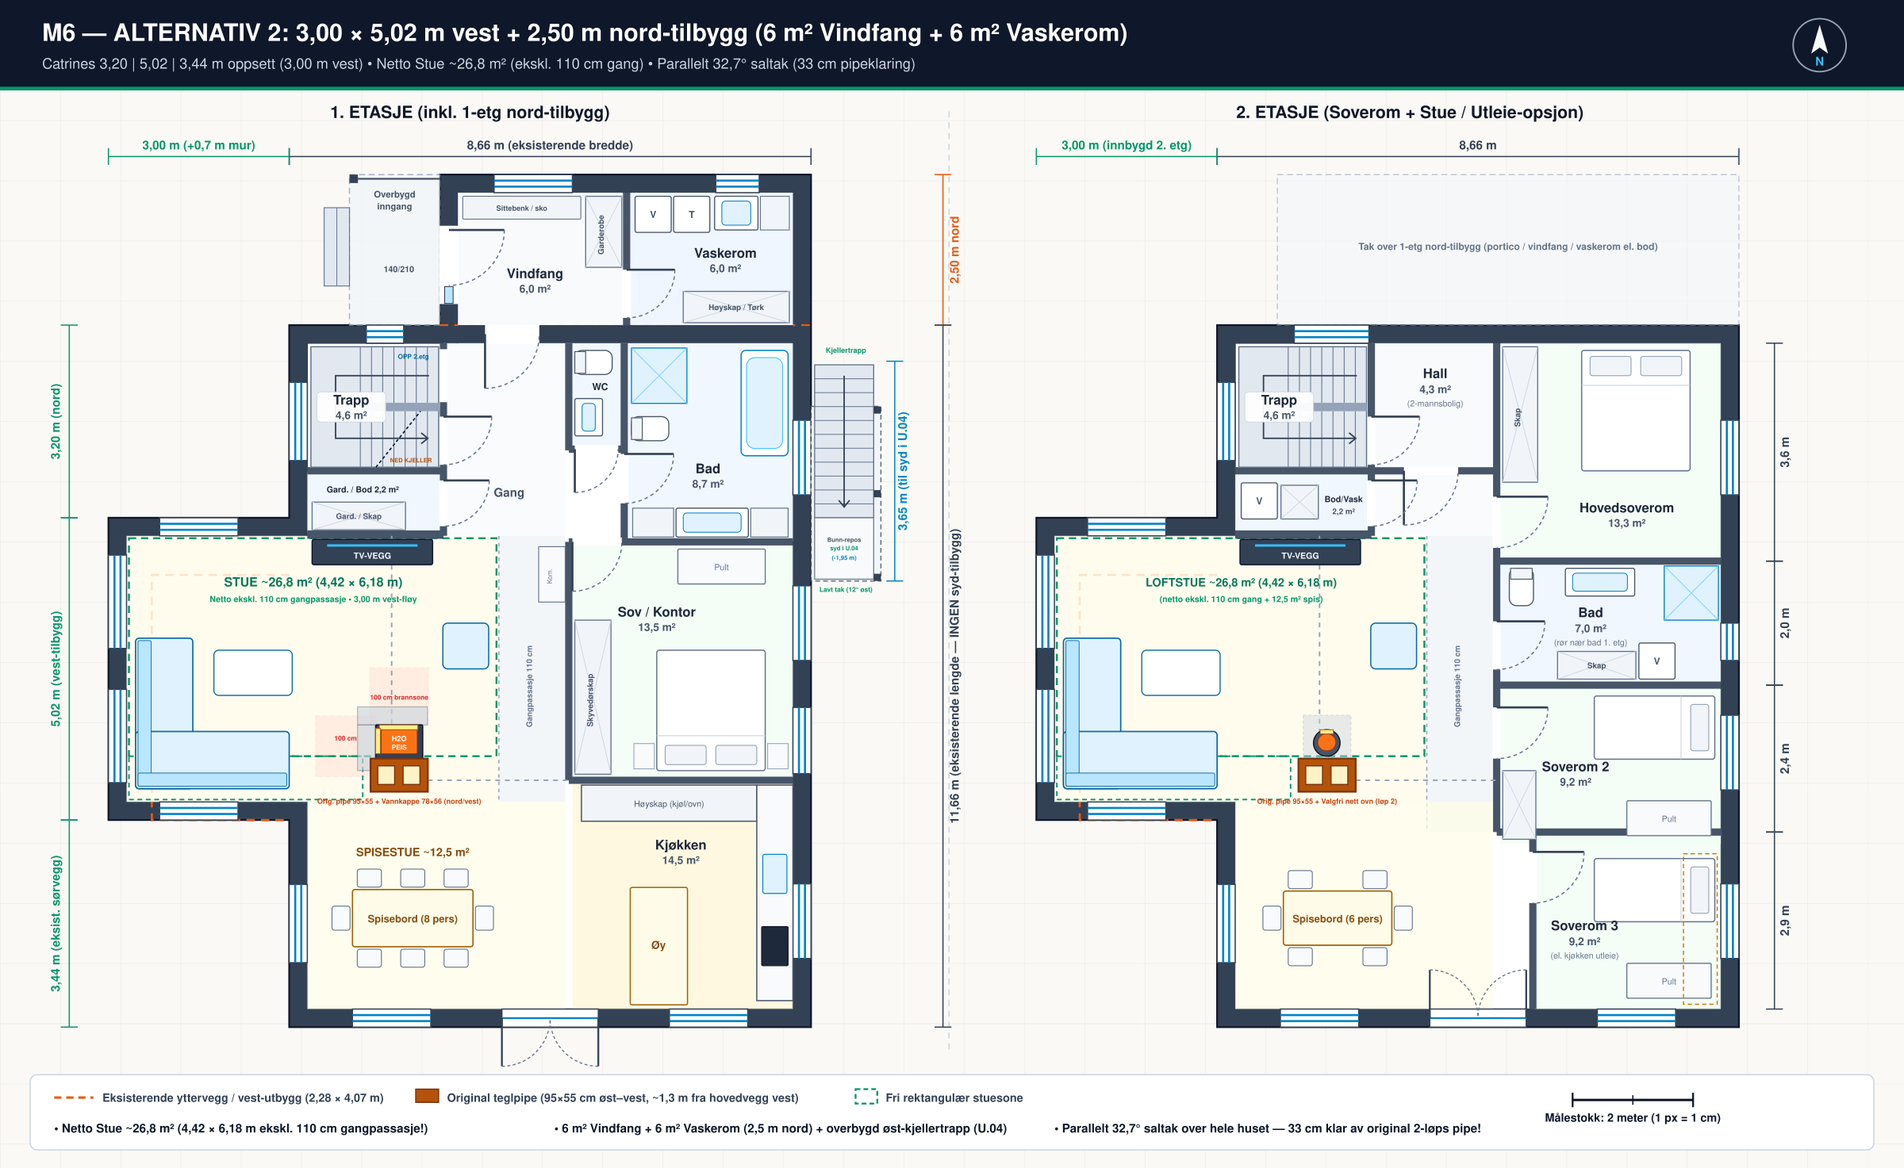
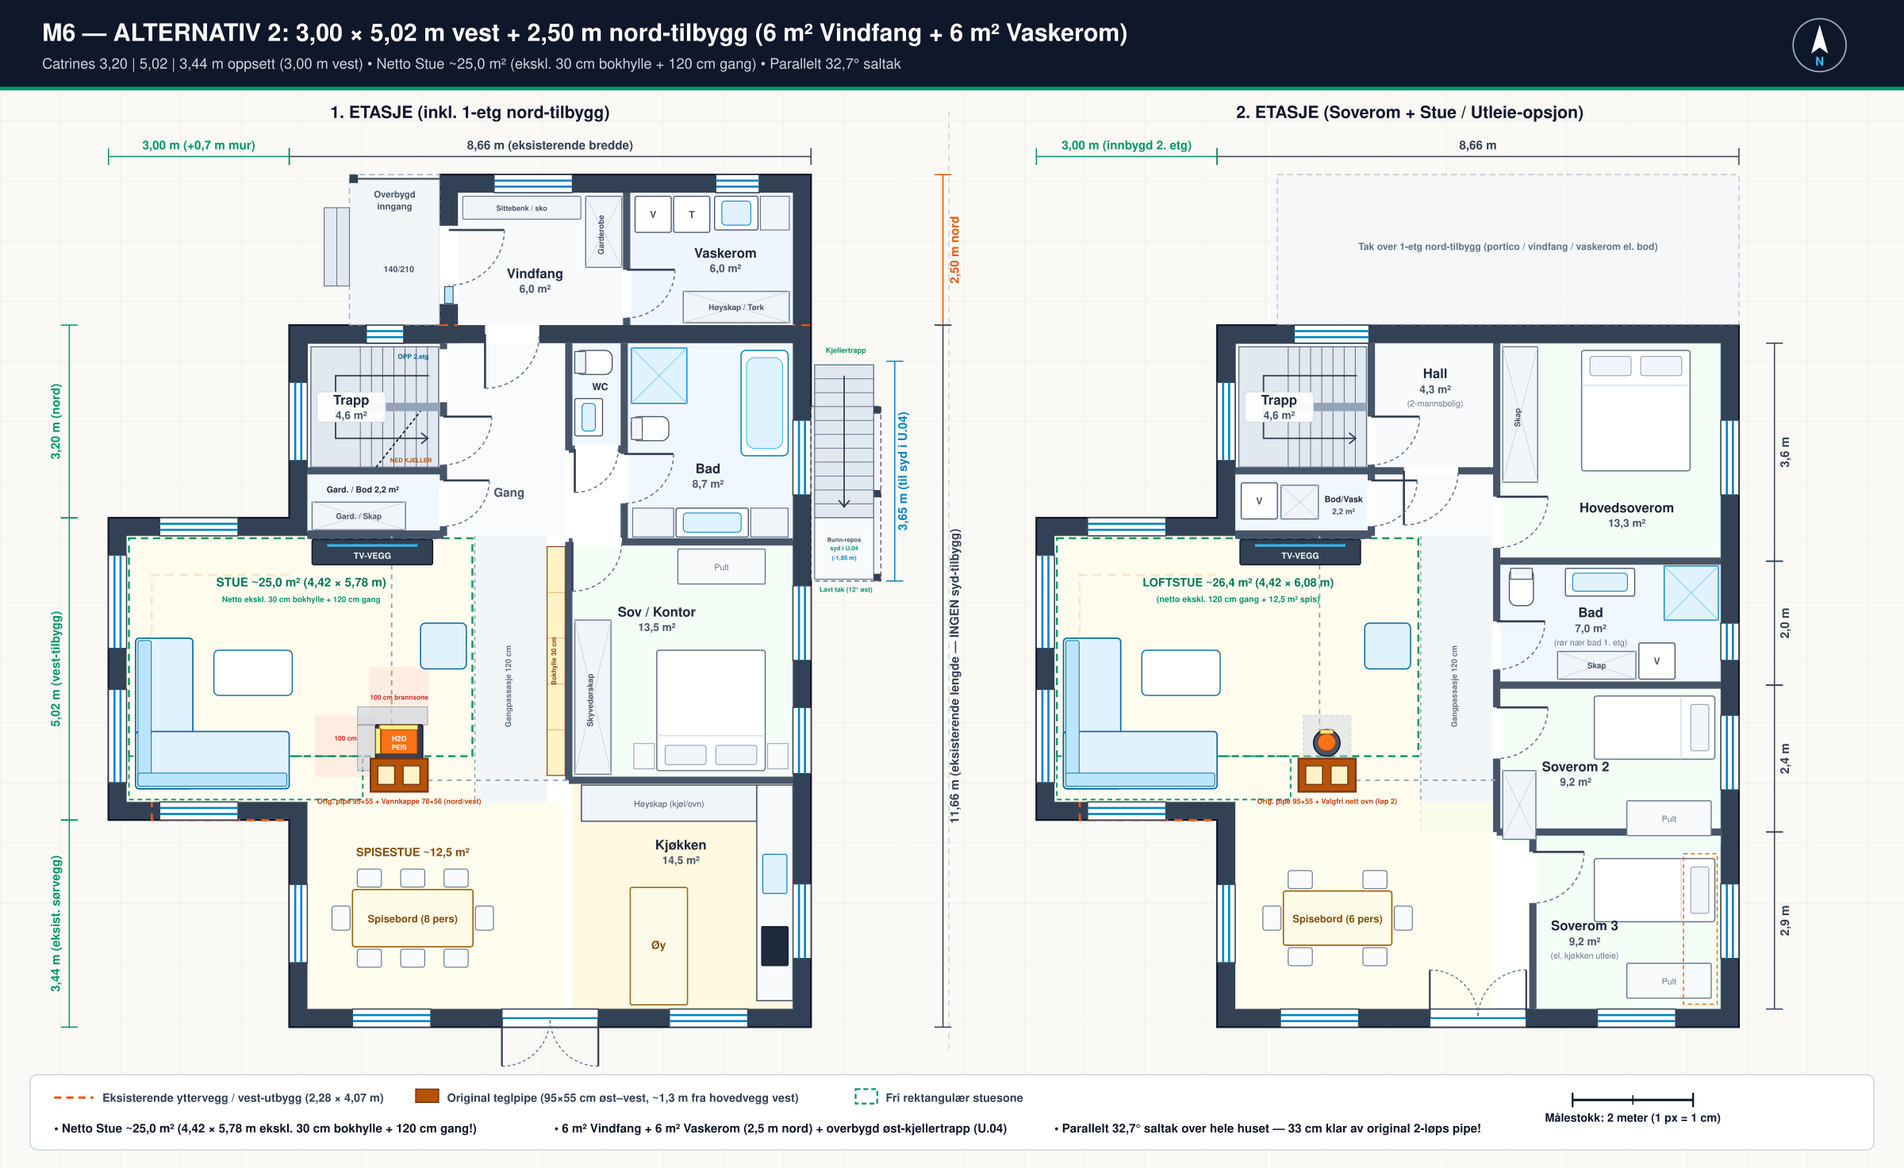
Add 30 cm built-in bookcase wall + 120 cm walkway west of it (excluded from Stue) (#50)

diff --git a/scripts/generate_vest_alternativer.py b/scripts/generate_vest_alternativer.py
@@ -626,8 +626,11 @@ def draw_shared_east_floor1(pb: PlanBuilder, north_vaskerom: bool = False, north
     pb.rect(572, 695, 34, 42, fill="#f8fafc", stroke="#94a3b8", sw=1.4)  # Nattbord vest
     pb.rect(794, 695, 34, 42, fill="#f8fafc", stroke="#94a3b8", sw=1.4)  # Nattbord øst
     pb.wardrobe(474, 490, 60, 256, "Skyvedørskap")
-    pb.rect(414, 368, 44, 92, fill="#f8fafc", stroke="#64748b", sw=1.5)  # Kommode mot tett Sov-vestvegg (som på 1:50-skisse!)
-    pb.text(436, 417, "Kom.", size=11, fill="#64748b", rotate=-90)
+    # 30 cm built-in bookcase along the full solid Sov/Kontor west wall (x=428..458, y=368..748 = 3,80 m long!)
+    pb.rect(428, 368, 30, 380, fill="#fef3c7", stroke="#92400e", sw=1.6)
+    for by in range(444, 748, 76):
+        pb.line(428, by, 458, by, stroke="#b45309", sw=0.9, opacity=0.6)
+    pb.text(443, 558, "Bokhylle 30 cm", size=11, weight="700", fill="#92400e", rotate=-90)
     pb.room_label(610, 488, "Sov / Kontor", "13,5 m²")
 
     # Kitchen
@@ -698,15 +701,15 @@ def build_alt1_floor1(pb: PlanBuilder):
     west_d, wy1, wy2 = 320, 410, 930
     draw_outer_shell(pb, west_d, wy1, wy2, north_ext=True)
 
-    # Social & hall tints — strictly EXCLUDE 110 cm Gangpassasje (x=348..458) from Stue area!
-    pb.rect(-290, 440, 290 + 348, 352, fill="#fffbeb", opacity=0.85)   # Stue (vest for 110 cm gangpassasje, 25,4 m² netto)
+    # Social & hall tints — strictly EXCLUDE 30 cm Bokhylle (x=428..458) + 120 cm Gangpassasje (x=308..428) from Stue!
+    pb.rect(-290, 440, 290 + 308, 352, fill="#fffbeb", opacity=0.85)   # Netto Stue vest for gangpassasje (~24,0 m²)
     pb.rect(-290, 792, 320, 108, fill="#fffbeb", opacity=0.85)         # Vestfløy sør-del (y=792..900)
-    pb.rect(348, 440, 110, 352, fill="#f1f5f9", opacity=0.9)           # Gangpassasje 110 cm (ekskludert fra stue!)
-    pb.line(348, 440, 348, 792, stroke="#94a3b8", sw=2.0, dash="6,6")
-    pb.text(403, 625, "Gangpassasje 110 cm", size=13, weight="700", fill="#64748b", rotate=-90)
+    pb.rect(308, 440, 120, 352, fill="#f1f5f9", opacity=0.92)          # Gangpassasje 120 cm (vest for 30 cm bokhylle!)
+    pb.line(308, 440, 308, 792, stroke="#94a3b8", sw=2.0, dash="6,6")
+    pb.text(368, 625, "Gangpassasje 120 cm", size=13, weight="700", fill="#64748b", rotate=-90)
     pb.rect(30, 792, 428, 344, fill="#fefce8", opacity=0.75)           # Spisestue
     pb.rect(-286, 444, 418, 452, fill="none", stroke="#0284c7", sw=3, dash="12,8")
-    pb.rect(132, 444, 212, 272, fill="none", stroke="#0284c7", sw=2.2, dash="8,6")
+    pb.rect(132, 444, 172, 272, fill="none", stroke="#0284c7", sw=2.2, dash="8,6")
     pb.rect(30, 256, 220, 178, fill="#eff6ff", opacity=0.85)  # Vask
     pb.rect(256, 30, 202, 410, fill="#f8fafc", opacity=0.85)  # Gang
 
@@ -750,8 +753,8 @@ def build_alt1_floor1(pb: PlanBuilder):
     pb.room_label(106, 142, "Trapp", "4,8 m²")
     pb.room_label(110, 382, "Vask", "3,9 m²")
     pb.text(362, 295, "Gang", size=20, weight="700", fill="#475569")
-    pb.text(-140, 535, "STUE ~25,4 m²", size=22, weight="800", fill="#0369a1")
-    pb.text(-140, 561, "(netto ekskl. 110 cm gang)", size=14, weight="700", fill="#0284c7")
+    pb.text(-140, 535, "STUE ~24,0 m²", size=22, weight="800", fill="#0369a1")
+    pb.text(-140, 561, "(ekskl. bokhylle + 120 gang)", size=13, weight="700", fill="#0284c7")
     pb.text(205, 882, "SPISESTUE ~11 m²", size=19, weight="700", fill="#854d0e")
 
     # Dimensions
@@ -769,14 +772,14 @@ def build_alt1_floor2(pb: PlanBuilder):
     west_d, wy1, wy2 = 320, 410, 930
     draw_outer_shell(pb, west_d, wy1, wy2, north_ext=False)
 
-    pb.rect(-290, 440, 290 + 348, 352, fill="#fffbeb", opacity=0.85)
+    pb.rect(-290, 440, 290 + 338, 352, fill="#fffbeb", opacity=0.85)
     pb.rect(-290, 792, 320, 108, fill="#fffbeb", opacity=0.85)
-    pb.rect(348, 440, 110, 402, fill="#f1f5f9", opacity=0.9)           # Gangpassasje 110 cm (ekskludert fra stue!)
-    pb.line(348, 440, 348, 842, stroke="#94a3b8", sw=2.0, dash="6,6")
-    pb.text(403, 640, "Gangpassasje 110 cm", size=13, weight="700", fill="#64748b", rotate=-90)
+    pb.rect(338, 440, 120, 402, fill="#f1f5f9", opacity=0.92)          # Gangpassasje 120 cm langs bad/sov-dører!
+    pb.line(338, 440, 338, 842, stroke="#94a3b8", sw=2.0, dash="6,6")
+    pb.text(398, 640, "Gangpassasje 120 cm", size=13, weight="700", fill="#64748b", rotate=-90)
     pb.rect(30, 792, 428, 344, fill="#fefce8", opacity=0.75)
     pb.rect(-286, 444, 418, 452, fill="none", stroke="#0284c7", sw=3, dash="12,8")
-    pb.rect(132, 444, 212, 272, fill="none", stroke="#0284c7", sw=2.2, dash="8,6")
+    pb.rect(132, 444, 202, 272, fill="none", stroke="#0284c7", sw=2.2, dash="8,6")
     pb.rect(30, 256, 220, 178, fill="#eff6ff", opacity=0.8)
     pb.rect(256, 30, 202, 226, fill="#f8fafc", opacity=0.9)
     pb.rect(256, 256, 202, 184, fill="#f8fafc", opacity=0.7)
@@ -819,8 +822,8 @@ def build_alt1_floor2(pb: PlanBuilder):
     pb.room_label(103, 142, "Trapp", "4,8 m²")
     pb.room_label(112, 352, "Bod / Vask", "3,6 m²")
     pb.room_label(362, 102, "Hall", "4,5 m²", "(2-mannsbolig)")
-    pb.text(-140, 535, "LOFTSTUE ~25,4 m²", size=20, weight="800", fill="#0369a1")
-    pb.text(-140, 561, "(netto ekskl. 110 cm gang)", size=14, weight="700", fill="#0284c7")
+    pb.text(-140, 535, "LOFTSTUE ~25,0 m²", size=20, weight="800", fill="#0369a1")
+    pb.text(-140, 561, "(netto ekskl. 120 cm gang)", size=14, weight="700", fill="#0284c7")
 
     pb.dim_h(0, 866, -265, "8,66 m", bold=True)
     pb.dim_h(-320, 0, -265, "3,20 m (innbygd 2. etg)", color="#0284c7", bold=True)
@@ -838,14 +841,14 @@ def build_alt2_floor1(pb: PlanBuilder, west_d: int = 230):
     dx_w = west_d - 230  # 0 for Alt 2, 70 for Alt 2.5
     draw_outer_shell(pb, west_d, wy1, wy2, north_ext=True, north_depth=250)
 
-    # Social & hall tints — strictly EXCLUDE 110 cm Gangpassasje (x=348..458) from Stue area!
-    pb.rect(-west_d + 30, 350, (west_d - 30) + 348, 442, fill="#fffbeb", opacity=0.85)  # Netto Stue vest for 110 cm gangpassasje!
-    pb.rect(348, 350, 110, 442, fill="#f1f5f9", opacity=0.92)                           # Gangpassasje 110 cm (ekskludert!)
-    pb.line(348, 350, 348, 792, stroke="#94a3b8", sw=2.0, dash="6,6")
-    pb.text(403, 600, "Gangpassasje 110 cm", size=13, weight="700", fill="#64748b", rotate=-90)
+    # Social & hall tints — strictly EXCLUDE 30 cm Bokhylle (x=428..458) + 120 cm Gangpassasje (x=308..428) from Stue!
+    pb.rect(-west_d + 30, 350, (west_d - 30) + 308, 442, fill="#fffbeb", opacity=0.85)  # Netto Stue vest for gangpassasje (~25,0 m²)
+    pb.rect(308, 350, 120, 442, fill="#f1f5f9", opacity=0.92)                           # Gangpassasje 120 cm (vest for 30 cm bokhylle!)
+    pb.line(308, 350, 308, 792, stroke="#94a3b8", sw=2.0, dash="6,6")
+    pb.text(368, 600, "Gangpassasje 120 cm", size=13, weight="700", fill="#64748b", rotate=-90)
     pb.rect(30, 792, 428, 344, fill="#fefce8", opacity=0.75)
-    # Dashed net living zone stops cleanly at x=344 (STRICTLY excluding 110 cm Gangpassasje x=348..458!)
-    pb.rect(-west_d + 34, 354, (west_d - 34) + 344, 362, fill="none", stroke="#059669", sw=3.2, dash="12,8")
+    # Dashed net living zone stops cleanly at x=304 (STRICTLY excluding 30 cm bokhylle + 120 cm gangpassasje!)
+    pb.rect(-west_d + 34, 354, (west_d - 34) + 304, 362, fill="none", stroke="#059669", sw=3.2, dash="12,8")
     pb.rect(-west_d + 34, 716, (west_d - 34) + 122, 72, fill="none", stroke="#059669", sw=2.5, dash="8,6")
     pb.rect(30, 244, 220, 100, fill="#eff6ff", opacity=0.85)  # Garderobe / Bod (2,2 m²)
     pb.rect(256, 30, 202, 320, fill="#f8fafc", opacity=0.85)  # Gang
@@ -884,11 +887,11 @@ def build_alt2_floor1(pb: PlanBuilder, west_d: int = 230):
     if is_25:
         pb.sofa_l(-255, 520, w_horiz=255, h_vert=250, depth=95, corner="bl")  # Romslig 2,55×2,50 m L-sofa!
         pb.coffee_table(-125, 540, 130, 75)
-        pb.armchair(255, 495, 76, 76)
+        pb.armchair(218, 495, 76, 76)                                         # 14 cm klar vest for 120 cm gangpassasje!
     else:
-        pb.sofa_l(-185, 540, w_horiz=225, h_vert=230, depth=92, corner="bl")  # 103 cm klar til vestglass på H2O-peis!
+        pb.sofa_l(-185, 540, w_horiz=225, h_vert=230, depth=92, corner="bl")
         pb.coffee_table(-65, 545, 120, 70)
-        pb.armchair(255, 495, 76, 76)
+        pb.armchair(218, 495, 76, 76)
     pb.chimney_and_fireplace(135, 720, 95, 55, mode="north_insert")
 
     # Labels
@@ -896,11 +899,11 @@ def build_alt2_floor1(pb: PlanBuilder, west_d: int = 230):
     pb.text(122, 278, "Gard. / Bod 2,2 m²", size=14, weight="700", fill="#1e293b")
     pb.text(365, 285, "Gang", size=20, weight="700", fill="#475569")
     if is_25:
-        pb.text(40, 434, "STUE ~26,8 m² (4,42 × 6,18 m)", size=21, weight="800", fill="#047857")
-        pb.text(40, 460, "Netto ekskl. 110 cm gangpassasje • 3,00 m vest-fløy", size=14, weight="700", fill="#059669")
+        pb.text(20, 434, "STUE ~25,0 m² (4,42 × 5,78 m)", size=20, weight="800", fill="#047857")
+        pb.text(20, 460, "Netto ekskl. 30 cm bokhylle + 120 cm gang", size=13, weight="700", fill="#059669")
     else:
-        pb.text(65, 434, "STUE ~23,7 m² (4,42 × 5,48 m)", size=21, weight="800", fill="#047857")
-        pb.text(65, 460, "Netto ekskl. 110 cm gangpassasje • Eksist. sørvegg vest", size=14, weight="700", fill="#059669")
+        pb.text(45, 434, "STUE ~21,9 m² (4,42 × 5,08 m)", size=20, weight="800", fill="#047857")
+        pb.text(45, 460, "Netto ekskl. 30 cm bokhylle + 120 cm gang", size=13, weight="700", fill="#059669")
     pb.text(205, 882, "SPISESTUE ~12,5 m²", size=19, weight="700", fill="#854d0e")
 
     # Dimensions
@@ -920,12 +923,12 @@ def build_alt2_floor2(pb: PlanBuilder, west_d: int = 230):
     dx_w = west_d - 230
     draw_outer_shell(pb, west_d, wy1, wy2, north_ext=False, north_depth=250)
 
-    pb.rect(-west_d + 30, 350, (west_d - 30) + 348, 442, fill="#fffbeb", opacity=0.85)
-    pb.rect(348, 350, 110, 492, fill="#f1f5f9", opacity=0.92)
-    pb.line(348, 350, 348, 842, stroke="#94a3b8", sw=2.0, dash="6,6")
-    pb.text(403, 600, "Gangpassasje 110 cm", size=13, weight="700", fill="#64748b", rotate=-90)
+    pb.rect(-west_d + 30, 350, (west_d - 30) + 338, 442, fill="#fffbeb", opacity=0.85)
+    pb.rect(338, 350, 120, 492, fill="#f1f5f9", opacity=0.92)
+    pb.line(338, 350, 338, 842, stroke="#94a3b8", sw=2.0, dash="6,6")
+    pb.text(398, 600, "Gangpassasje 120 cm", size=13, weight="700", fill="#64748b", rotate=-90)
     pb.rect(30, 792, 428, 344, fill="#fefce8", opacity=0.75)
-    pb.rect(-west_d + 34, 354, (west_d - 34) + 344, 362, fill="none", stroke="#059669", sw=3.2, dash="12,8")
+    pb.rect(-west_d + 34, 354, (west_d - 34) + 334, 362, fill="none", stroke="#059669", sw=3.2, dash="12,8")
     pb.rect(-west_d + 34, 716, (west_d - 34) + 122, 72, fill="none", stroke="#059669", sw=2.5, dash="8,6")
     pb.rect(30, 244, 220, 100, fill="#eff6ff", opacity=0.85)
     pb.rect(256, 30, 202, 212, fill="#f8fafc", opacity=0.9)
@@ -963,11 +966,11 @@ def build_alt2_floor2(pb: PlanBuilder, west_d: int = 230):
     if is_25:
         pb.sofa_l(-255, 520, w_horiz=255, h_vert=250, depth=95, corner="bl")
         pb.coffee_table(-125, 540, 130, 75)
-        pb.armchair(255, 495, 76, 76)
+        pb.armchair(245, 495, 76, 76)
     else:
         pb.sofa_l(-185, 540, w_horiz=225, h_vert=230, depth=92, corner="bl")
         pb.coffee_table(-65, 545, 120, 70)
-        pb.armchair(255, 495, 76, 76)
+        pb.armchair(245, 495, 76, 76)
     pb.dining_table(200, 985, 180, 90, seats=6)
     pb.chimney_and_fireplace(135, 720, 95, 55, mode="north_stove")
 
@@ -976,11 +979,11 @@ def build_alt2_floor2(pb: PlanBuilder, west_d: int = 230):
     pb.text(210, 314, "2,2 m²", size=13, weight="600", fill="#475569")
     pb.room_label(362, 98, "Hall", "4,3 m²", "(2-mannsbolig)")
     if is_25:
-        pb.text(40, 434, "LOFTSTUE ~26,8 m² (4,42 × 6,18 m)", size=19, weight="800", fill="#047857")
-        pb.text(40, 460, "(netto ekskl. 110 cm gang + 12,5 m² spis)", size=14, weight="700", fill="#059669")
+        pb.text(35, 434, "LOFTSTUE ~26,4 m² (4,42 × 6,08 m)", size=19, weight="800", fill="#047857")
+        pb.text(35, 460, "(netto ekskl. 120 cm gang + 12,5 m² spis)", size=14, weight="700", fill="#059669")
     else:
-        pb.text(65, 434, "LOFTSTUE ~23,7 m² (4,42 × 5,48 m)", size=19, weight="800", fill="#047857")
-        pb.text(65, 460, "(netto ekskl. 110 cm gang + 12,5 m² spis)", size=14, weight="700", fill="#059669")
+        pb.text(60, 434, "LOFTSTUE ~23,3 m² (4,42 × 5,38 m)", size=19, weight="800", fill="#047857")
+        pb.text(60, 460, "(netto ekskl. 120 cm gang + 12,5 m² spis)", size=14, weight="700", fill="#059669")
 
     pb.dim_h(0, 866, -280, "8,66 m", bold=True)
     pb.dim_h(-west_d, 0, -280, "3,00 m (innbygd 2. etg)" if is_25 else "2,30 m (innbygd 2. etg)", color="#059669", bold=True)
@@ -1058,7 +1061,7 @@ if __name__ == "__main__":
         build_alt1_floor1,
         build_alt1_floor2,
         [
-            "Netto Stue ~25,4 m² (ekskl. 110 cm gangpassasje; 19,2 m² vest for pipe)",
+            "Netto Stue ~24,0 m² (ekskl. 30 cm bokhylle + 120 cm gang; 19,2 m² vest for pipe)",
             "Nord-tilbygg (Vindfang 5,4 m², Kjellernedg., Utebod) + 8,7 m² Bad",
             "Krever ~0,9 m nytt fundament vest + 20° saltak (28 cm klar av 2-løps pipe)",
         ],
@@ -1066,12 +1069,12 @@ if __name__ == "__main__":
     make_sheet(
         "plan_alt2_symmetrisk_vest.svg",
         "M6 — ALTERNATIV 2: 3,00 × 5,02 m vest + 2,50 m nord-tilbygg (6 m² Vindfang + 6 m² Vaskerom)",
-        "Catrines 3,20 | 5,02 | 3,44 m oppsett (3,00 m vest) • Netto Stue ~26,8 m² (ekskl. 110 cm gang) • Parallelt 32,7° saltak (33 cm pipeklaring)",
+        "Catrines 3,20 | 5,02 | 3,44 m oppsett (3,00 m vest) • Netto Stue ~25,0 m² (ekskl. 30 cm bokhylle + 120 cm gang) • Parallelt 32,7° saltak",
         "#059669",
         lambda pb: build_alt2_floor1(pb, west_d=300),
         lambda pb: build_alt2_floor2(pb, west_d=300),
         [
-            "Netto Stue ~26,8 m² (4,42 × 6,18 m ekskl. 110 cm gangpassasje!)",
+            "Netto Stue ~25,0 m² (4,42 × 5,78 m ekskl. 30 cm bokhylle + 120 cm gang!)",
             "6 m² Vindfang + 6 m² Vaskerom (2,5 m nord) + overbygd øst-kjellertrapp (U.04)",
             "Parallelt 32,7° saltak over hele huset — 33 cm klar av original 2-løps pipe!",
         ],

diff --git a/scripts/generate_3d_perspektiv_eksakt.py b/scripts/generate_3d_perspektiv_eksakt.py
@@ -409,16 +409,16 @@ def main():
     # Panel banners
     svg.append('<rect x="65" y="180" width="760" height="72" fill="#ffffff" opacity="0.94" stroke="#0284c7" stroke-width="2" rx="10"/>')
     svg.append('<text x="90" y="212" font-size="22" font-weight="800" fill="#0f172a">ALTERNATIV 1: 3,30 × 5,20 m (20° slakt saltak)</text>')
-    svg.append('<text x="90" y="238" font-size="16" font-weight="600" fill="#0284c7">Netto stue ~25,4 m² • Verandadør nord • 28 cm klar av original 2-løps pipe</text>')
+    svg.append('<text x="90" y="238" font-size="16" font-weight="600" fill="#0284c7">Netto stue ~24,0 m² (ekskl. bokhylle + 120 gang) • Verandadør nord • 28 cm klar av pipe</text>')
 
-    svg.append('<rect x="1365" y="180" width="820" height="72" fill="#ffffff" opacity="0.94" stroke="#059669" stroke-width="2" rx="10"/>')
+    svg.append('<rect x="1365" y="180" width="840" height="72" fill="#ffffff" opacity="0.94" stroke="#059669" stroke-width="2" rx="10"/>')
     svg.append('<text x="1390" y="212" font-size="22" font-weight="800" fill="#0f172a">ALTERNATIV 2: 3,00 × 5,02 m (32,7° parallelt saltak)</text>')
-    svg.append('<text x="1390" y="238" font-size="16" font-weight="600" fill="#059669">Netto stue ~26,8 m² • 3,20 | 5,02 | 3,44 m • Samme takvinkel som hovedtak • 33 cm klar av pipe</text>')
+    svg.append('<text x="1390" y="238" font-size="16" font-weight="600" fill="#059669">Netto stue ~25,0 m² (ekskl. bokhylle + 120 gang) • Samme takvinkel som hovedtak • 33 cm klar av pipe</text>')
 
     # Footer
     svg.append(f'<rect x="40" y="1165" width="{W - 80}" height="88" fill="#ffffff" stroke="#cbd5e1" stroke-width="2" rx="10"/>')
     svg.append('<text x="75" y="1200" font-size="19" font-weight="700" fill="#0f172a">Direkte volum- og taksammenligning (eksakt 3D-projeksjon):</text>')
-    svg.append('<text x="75" y="1230" font-size="18" font-weight="500" fill="#334155">Venstre: Alt 1 (3,30 × 5,20 m, 20° slakere tak, ~25,4 m² netto stue). Høyre: Alt 2 (3,00 × 5,02 m, 3,20 | 5,02 | 3,44 m -> parallelt 32,7° saltak som hovedtaket, 33 cm klar av pipa og ~26,8 m² netto stue!).</text>')
+    svg.append('<text x="75" y="1230" font-size="18" font-weight="500" fill="#334155">Venstre: Alt 1 (3,30 × 5,20 m, 20° slakere tak, ~24,0 m² netto stue). Høyre: Alt 2 (3,00 × 5,02 m, 3,20 | 5,02 | 3,44 m -> parallelt 32,7° saltak som hovedtaket, 33 cm klar av pipa og ~25,0 m² netto stue!).</text>')
     svg.append("</svg>")
 
     out = os.path.join(OUT_DIR, "perspektiv_3d_eksakt_dybde.svg")

diff --git a/docs/ARKITEKTBRIEF_M6_REV2.md b/docs/ARKITEKTBRIEF_M6_REV2.md
@@ -60,8 +60,8 @@ Eksisterende vest-utbygg (`2,28 × 4,07 m`) **rives helt** for enkel tilgang til
 ### Peistest (kompakt H2O-innsats `56 × 78 cm` + `30 cm` ildfast plate + `100 cm` brannsone)
 | Alternativ vest-tilbygg | Fri sone mot sofa / opphold | Fasadesymmetri vest | Tak & original 2-løps pipe (#38) |
 | :--- | :--- | :--- | :--- |
-| **Alt 1: `3,20–3,30 × 5,20 m`** *(dypere tverrfløy)* | **`~25,4 m²` netto stue** *(ekskl. `110 cm` gangpassasje; `19,2 m²` vest for pipe)* — `1,09 m` klaring til full `2,4 × 2,4 m` L-sofa | `4,10 \| 5,20 \| 2,36 m` | **`20°` slakt saltak** (`28 cm` fri klaring nord for pipe) eller **`10°` pulttak** (`35 cm` vest, 0 gradrenner). *NB: `32,7°` saltak krasjer i pipa!* |
-| **Alt 2: `3,00 × 5,02 m`** *(parallelt `32,7°` saltak)* | **`~26,8 m²` netto stue** (`4,42 × 6,18 m`, ekskl. `110 cm` gangpassasje) — plass til stor `2,55×2,50 m` L-sofa og H2O-peis (nord eller vest på pipa!) | **`3,20 \| 5,02 \| 3,44 m`** *(beholder eksist. sørvegg, +0,7 m mur vest)* | **Parallelt `32,7°` saltak** (samme takvinkel som hovedtak og nord-tilbygg!) — **`33 cm` fri klaring** nord for pipa uten takkonflikt! |
+| **Alt 1: `3,20–3,30 × 5,20 m`** *(dypere tverrfløy)* | **`~24,0 m²` netto stue** *(1. etg ekskl. `30 cm` bokhylle + `120 cm` gangpassasje; `~25,0 m²` loftstue; `19,2 m²` vest for pipe)* | `4,10 \| 5,20 \| 2,36 m` | **`20°` slakt saltak** (`28 cm` fri klaring nord for pipe) eller **`10°` pulttak** (`35 cm` vest, 0 gradrenner). *NB: `32,7°` saltak krasjer i pipa!* |
+| **Alt 2: `3,00 × 5,02 m`** *(parallelt `32,7°` saltak)* | **`~25,0 m²` netto stue** (`4,42 × 5,78 m`, 1. etg ekskl. `30 cm` bokhylle + `120 cm` gangpassasje; `~26,4 m²` loftstue) — stor L-sofa & H2O-peis | **`3,20 \| 5,02 \| 3,44 m`** *(beholder eksist. sørvegg, +0,7 m mur vest)* | **Parallelt `32,7°` saltak** (samme takvinkel som hovedtak og nord-tilbygg!) — **`33 cm` fri klaring** nord for pipa uten takkonflikt! |
 
 ---
 
@@ -79,9 +79,9 @@ Eksisterende vest-utbygg (`2,28 × 4,07 m`) **rives helt** for enkel tilgang til
 
 ## 5. Vedlagte tegninger, 3D-projeksjoner & renders i repoet
 
-* **Plantegninger 1. & 2. etg (1 px = 1 cm, ekskl. `110 cm` gangpassasje):**
-  * [Alternativ 1 (`3,20 × 5,20 m` vest, `~25,4 m²` netto stue + `2,10 m` nord-tilbygg)](../assets/images/drawings/plan_alt1_dypere_vest.png)
-  * [Alternativ 2 (`3,00 × 5,02 m` vest, `~26,8 m²` netto stue + `2,50 m` nord-tilbygg m/ `6 m² Vaskerom` & `U.04` øst-kjellertrapp)](../assets/images/drawings/plan_alt2_symmetrisk_vest.png)
+* **Plantegninger 1. & 2. etg (1 px = 1 cm, ekskl. `30 cm` bokhylle + `120 cm` gangpassasje):**
+  * [Alternativ 1 (`3,20 × 5,20 m` vest, `~24,0 m²` netto stue + `2,10 m` nord-tilbygg)](../assets/images/drawings/plan_alt1_dypere_vest.png)
+  * [Alternativ 2 (`3,00 × 5,02 m` vest, `~25,0 m²` netto stue + `2,50 m` nord-tilbygg m/ `6 m² Vaskerom` & `U.04` øst-kjellertrapp)](../assets/images/drawings/plan_alt2_symmetrisk_vest.png)
 * **Peistest (rett vest på original pipe):**
   * [Sammenligning `2,30 m` vs `2,80 m` vs `3,20 m`](../assets/images/drawings/test_peis_vest_sammenligning.png)
 * **Tekniske fasader & 3D-takplan:**
